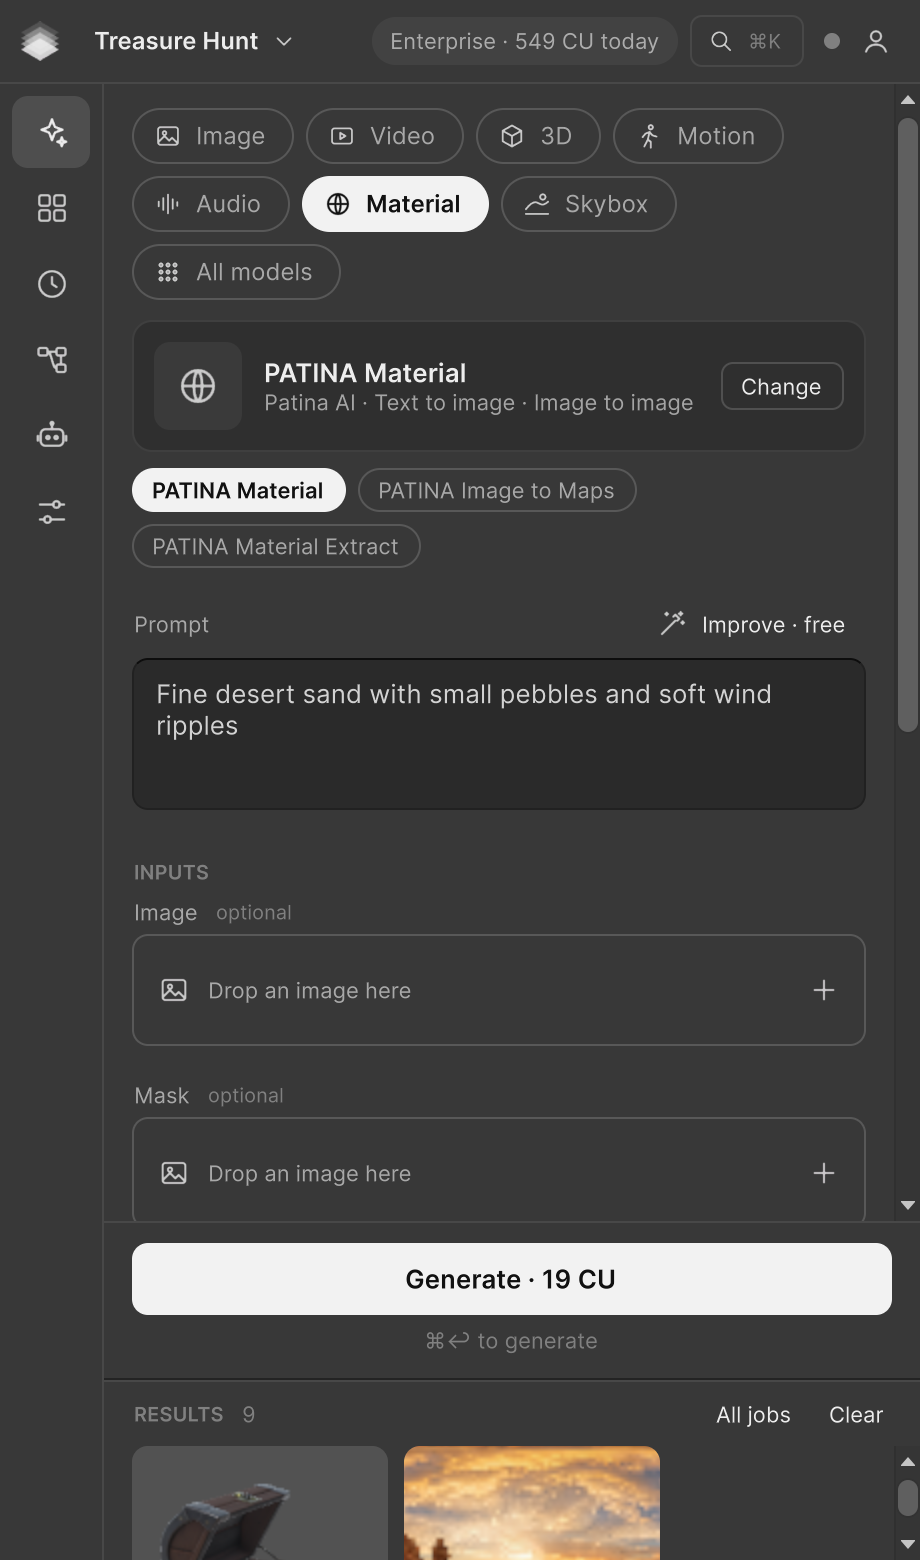
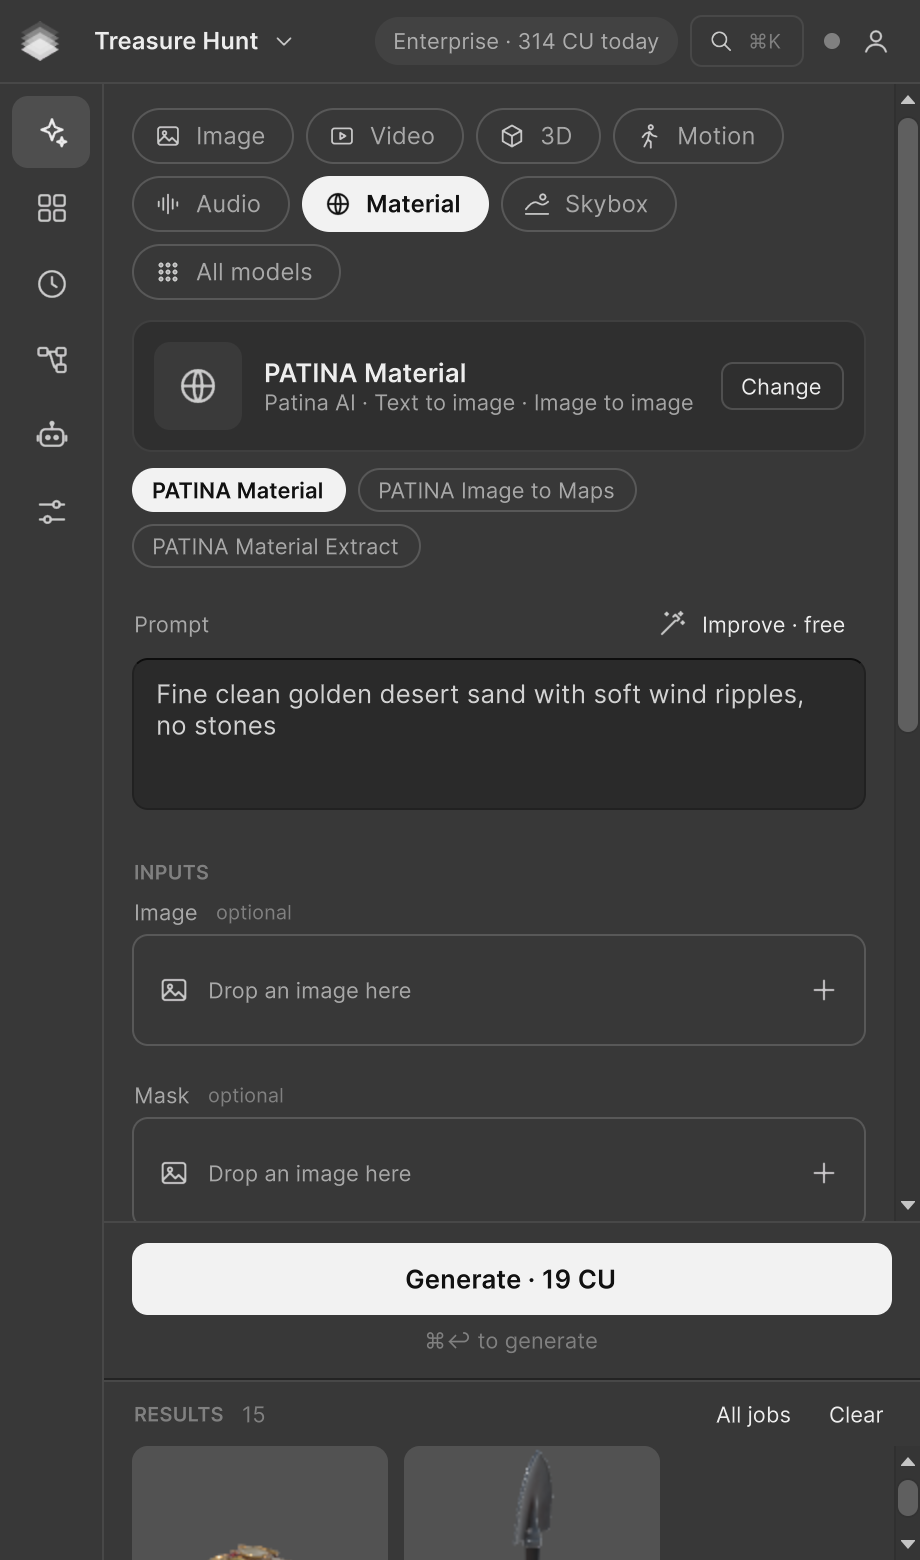
docs(docs): show the hunter at sunset on the dunes, and where credentials fall back to
The hero is a new render: the hunter cheering on a dune at sunset
beside the chest he dug up, its spilled coins and his shovel, under a
sky of dunes upscaled four times. "Dress the scene" lists the six
generations it took, and the Material and Skybox screenshots show
their prompts. Sign in now says the credential goes to
Scenario/Unity/account.json when the OS store is missing or refuses it.

diff --git a/docs/HANDBOOK.md b/docs/HANDBOOK.md
@@ -2,7 +2,7 @@
 
 Scenario for Unity adds a window to the Unity Editor that runs Scenario's models on your project: images, video, 3D models, character animation, audio, PBR materials and skyboxes. Each result lands as a working Unity asset, a prefab on the ground, a material on your mesh, a character that moves in Play mode, the scene's sky, and every request shows its price before anything is spent. You need Unity 6.0 or later and a Scenario account.
 
-![A treasure hunter cheers beside an open chest of gold coins on desert sand, under red rock arches at golden hour: every model, motion, material and the sky made with the plugin, rendered by Unity](images/hero.jpg)
+![A treasure hunter cheers with both arms up on a sand dune at sunset, beside the open chest he dug up, its spilled gold coins and his shovel: every model, motion, material and the sky made with the plugin, rendered by Unity](images/hero.jpg)
 
 > Every picture in this guide is a real Scenario result, imported by the plugin and rendered by Unity.
 
@@ -33,7 +33,7 @@ The same steps are on each result card (**Next**), in a right-click in the Proje
 
 ## The example
 
-The five steps below follow one character: a treasure hunter, made from a prompt, given a new outfit, rigged, animated three ways, and set in a desert scene with a chest of gold, sand and a canyon sky, the picture at the top of this page.
+The five steps below follow one character: a treasure hunter, made from a prompt, given a new outfit, rigged, animated three ways, and set on a dune at sunset with the chest he dug up, the picture at the top of this page.
 
 Each step pairs what you do in Unity with a Scenario model. Every picture is a real run with the plugin, at the models and prices the window showed.
 
@@ -120,16 +120,16 @@ Select a rigged character with a walk and choose **Make playable** in the panel.
 
 **When to use it:** the scene needs props, materials, a sky, sound or a mood.
 
-The hunter's scene took three more generations and one free preset:
+The hunter's scene took six more generations and one free preset:
 
-- **A chest**: Rodin Gen-2.5 from "An open wooden treasure chest overflowing with gold coins, iron bands, stylized game prop".
-- **The sand**: with the ground plane selected, **Material** and PATINA Material from "Fine desert sand with small pebbles and soft wind ripples". The material lands on the selected mesh, built for the project's render pipeline.
-- **The sky**: **Skybox** and Scenario Skybox GPT from "A desert canyon at golden hour, red rock arches, warm hazy sky, distant dunes". It becomes the scene's sky.
+- **The props**: Rodin Gen-2.5, three times. The chest from "An open ornate wooden treasure chest overflowing with shiny gold coins, jewels and pearls, brass corners and iron bands, weathered wood, highly detailed game prop", at the High tier with 4K textures (**More settings**); the shovel and the spilled coins from prompts of their own.
+- **The sand**: **Material** and PATINA Material from "Fine clean golden desert sand with soft wind ripples, no stones". With a mesh selected, the material lands on it, built for the project's render pipeline; here it covers the dunes, a Unity terrain.
+- **The sky**: **Skybox** and Scenario Skybox GPT from "Endless golden sand dunes rolling to the horizon at golden hour, the sun low and glowing just above the horizon, a dramatic sky of long luminous clouds, faint distant mesas in the warm haze". It becomes the scene's sky. Scenario Skybox Upscale then made it four times larger, 8192 pixels wide, so it stays sharp behind a close camera.
 - **The light**: **Light and mood > Golden hour**, which sets the sun, fog, ambient light and, in URP, post-processing. It is free and runs at once.
 
 | Material | Skybox |
 | --- | --- |
-| ![Create, Material: PATINA Material and the sand prompt, Generate · 19 CU](images/screens/create-material-light.png) | ![Create, Skybox: Scenario Skybox GPT and the canyon prompt, Generate · 34 CU](images/screens/create-skybox-light.png) |
+| ![Create, Material: PATINA Material and the sand prompt, Generate · 19 CU](images/screens/create-material-light.png) | ![Create, Skybox: Scenario Skybox GPT and the dunes prompt, Generate · 34 CU](images/screens/create-skybox-light.png) |
 
 Also in the panel and in Create:
 
@@ -191,7 +191,7 @@ This package replaces the earlier Scenario plugin for Unity (`com.scenarioinc.sc
 - **Use an API key instead**: the key and the secret from the Scenario web app. An API key belongs to one project, so there is no picker.
 - **Sign in on another device** is for a browser that cannot reach Unity, such as a remote desktop. It is not available yet: until Scenario turns it on for Unity, sign in with the browser or an API key.
 
-Your sign-in is kept in the macOS Keychain or the Windows Credential Manager, never in the Unity project, so nothing reaches git. Sign out from the account menu in the header or in **Settings**.
+Your sign-in is kept in the macOS Keychain or the Windows Credential Manager. Where that store is missing or refuses it (on Linux, for example), it goes to `Scenario/Unity/account.json` in your user configuration folder instead. Either way it stays out of the Unity project, so nothing reaches git. Sign out from the account menu in the header or in **Settings**.
 
 ## The window, top to bottom
 
